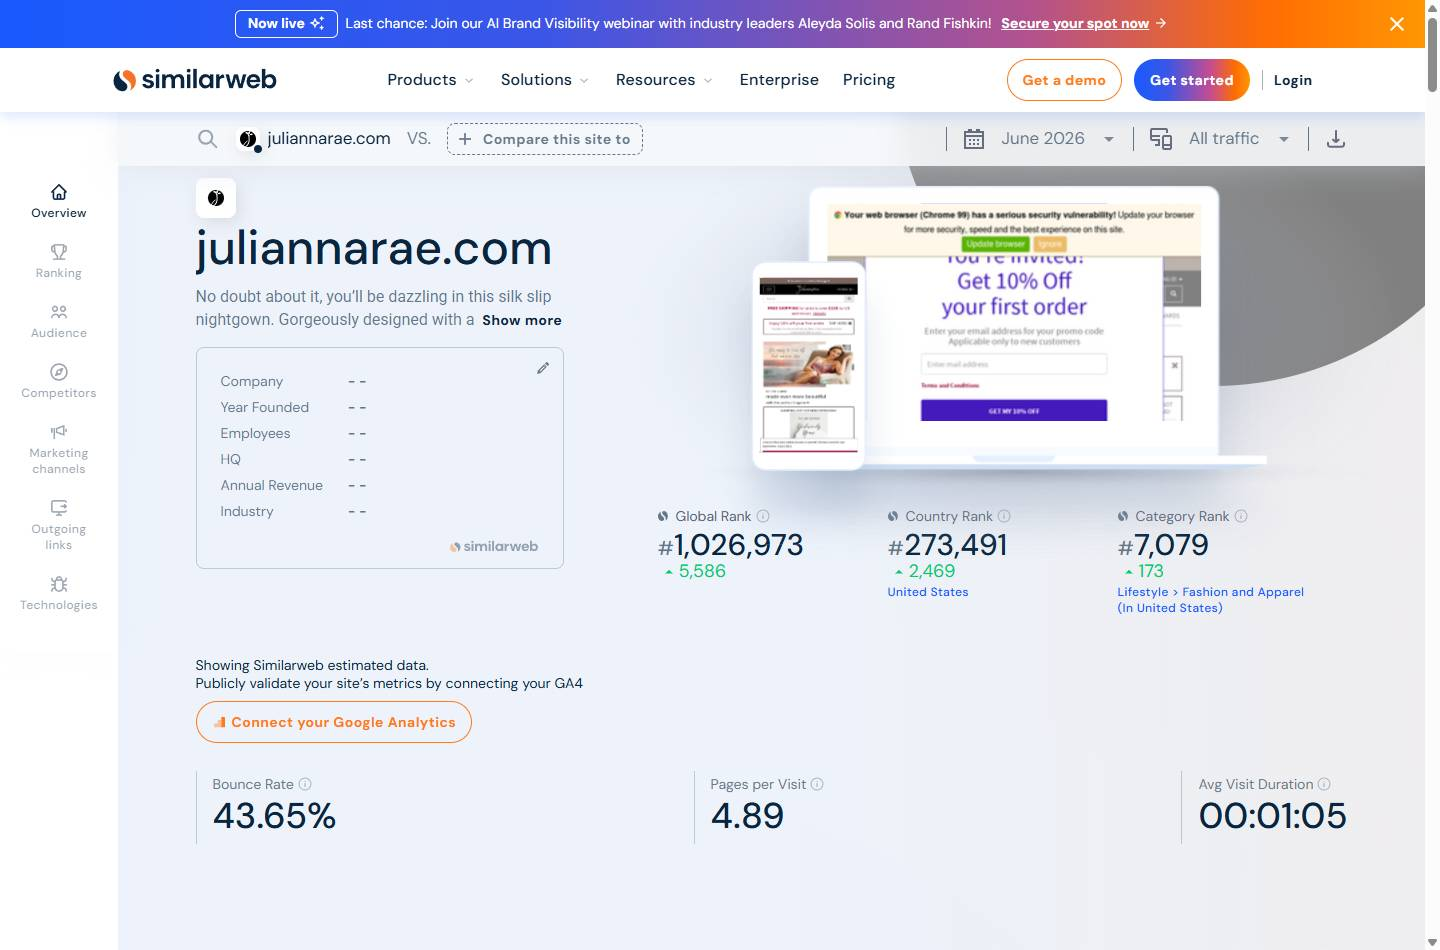
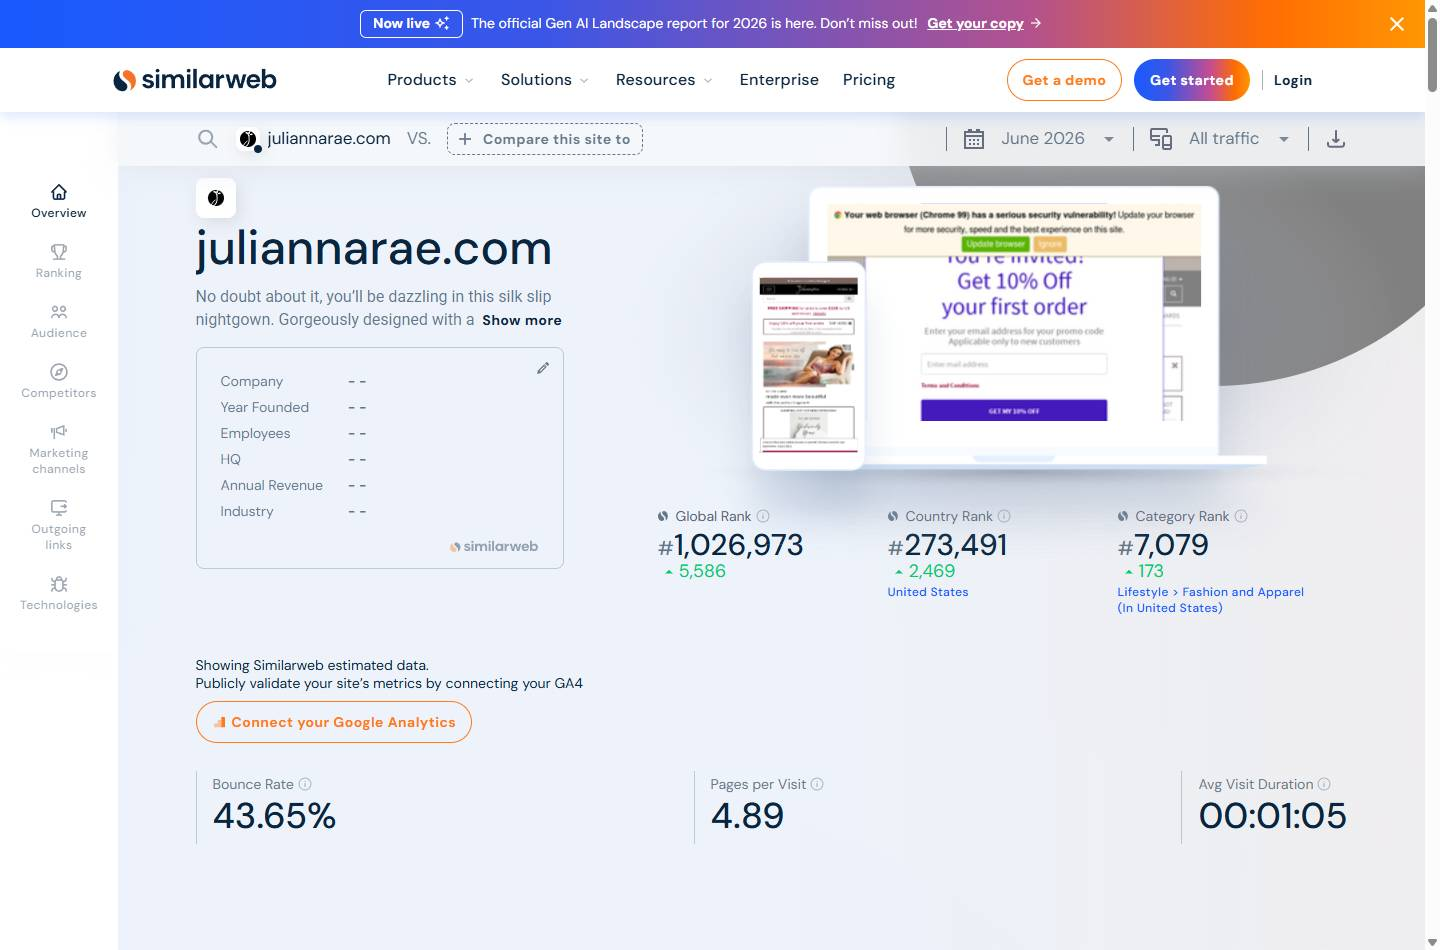
Fecha a re-medicao de trafego e quantifica o territorio de roupa de cama
SimilarWeb concluido nos 9 dominios: os 8 ja medidos em 20/07 voltaram com
valores identicos (base mensal, junho/2026 vigente), confirmando que
faturamento e investimento seguem validos.

Dado novo: rest.com, o entrante do angulo cooling, tem 338,5 mil visitas/mes,
85,9% EUA, bounce 33% e rank de categoria #47 (acima da Cozy Earth, #61).
Pelo modelo IRP das fichas: ~US$ 906 mil/mes, selo medido.

Isso quantifica a tese: duas operacoes no mesmo angulo e no mesmo avatar,
uma vendendo cama (US$ 906 mil) e outra vendendo pijama (US$ 9 mil).

Changed region(s): [[0.1562, 0.0, 0.8125, 0.0611]]

diff --git a/index.html b/index.html
@@ -107,15 +107,26 @@
 <tr style="background:rgba(248,113,113,.06)"><td><a href="loja-serena.html"><b>Serena</b></a></td><td class="num">sem dados</td><td class="num">US$ 0</td><td>medido</td><td class="num">R$ 344 (12d)</td><td><span class="pill p-c">AUTÓPSIA</span></td></tr>
 </tbody>
 </table></div>
-<div class="note info"><b>Por que estes números não mudaram nesta atualização:</b> o SimilarWeb foi re-rodado do zero em 24/07 (arquivo anterior removido pra forçar nova medição, não reaproveitamento de cache). Até o fechamento desta versão, <b>5 dos 9 domínios já haviam retornado — Dore &amp; Rose, Cozy Earth, Floralshe, Lusome e Midnighties — todos com valores idênticos</b> aos de 20/07. É o esperado: a base do SimilarWeb é <b>mensal</b> e junho/2026 segue sendo o mês vigente, então quatro dias não movem o dado. Os quatro restantes (Julianna Rae, Petite Plume, Rest e a própria Serena) são OBSERVAR/sem-dado e não alteram o ranking. O mesmo vale pro benchmark IRP, que ainda publica junho/2026. Faturamento e investimento seguem válidos e com o mesmo selo.</div>
+<div class="note info"><b>Por que estes números não mudaram nesta atualização:</b> o SimilarWeb foi re-rodado do zero em 24/07 (arquivo anterior removido pra forçar nova medição, não reaproveitamento de cache). <b>Os 8 domínios voltaram com valores idênticos aos de 20/07</b>, um a um — Dore &amp; Rose 350,6 mil, Cozy Earth 1,3 mi, Floralshe 63,2 mil, Julianna Rae 17,9 mil, Lusome 4,9 mil, Midnighties 20 mil, Petite Plume 20 mil, e Serena segue abaixo do indexado. É o esperado: a base do SimilarWeb é <b>mensal</b> e junho/2026 segue sendo o mês vigente, então quatro dias não movem o dado. O mesmo vale pro benchmark IRP, que ainda publica junho/2026. Faturamento e investimento seguem válidos e com o mesmo selo. <b>A única medição de tráfego inédita foi a da Rest</b> (novo entrante, 338,5 mil visitas), na seção 06.</div>
 <div class="note"><b>Benchmark de custo do nicho</b> (IRP Commerce, Fashion Clothing &amp; Accessories, jun/2026, reconfirmado em 24/07, referência de toda ficha): conversão <b>1,70%</b> · ticket <b>~US$ 109</b> · CPA <b>10,6% da receita</b> · <b>CPM US$ 9,23</b> · CPC US$ 0,45. Setor de margem apertada em CPA: o ticket precisa segurar, então o caminho é empurrar AOV pra cima (bump/upsell), não baixar preço.</div>
 </section>
 
 <section>
 <h2><span class="n">06</span>Quem entrou no mercado desde 20/07</h2>
-<p class="lead">Páginas que apareceram no topo das buscas de ângulo no mercado US e não estavam no levantamento original. Nenhuma delas muda o ranking de MODELAR, mas duas explicam pra onde o dinheiro está indo.</p>
+<p class="lead">Páginas que apareceram no topo das buscas de ângulo no mercado US e não estavam no levantamento original. Nenhuma delas muda o ranking de MODELAR, mas uma delas quantifica a tese inteira.</p>
+<div class="note good"><b>O número que fecha o argumento.</b> O SimilarWeb da Rest voltou com <b>338,5 mil visitas/mês</b>, 85,9% dos EUA, bounce de 33% (público muito qualificado) e <b>rank de categoria #47</b> — acima da Cozy Earth, que é #61. Pelo mesmo modelo IRP usado em todas as fichas, isso dá <b>~US$ 906 mil/mês</b> (selo: <b>medido</b>, visitas reais do SimilarWeb; ticket = mediana de US$ 126 do products.json).<br><br>
+Colocado lado a lado, o desenho do ângulo cooling fica explícito:
+<div class="tblwrap" style="margin-top:12px"><table>
+<thead><tr><th>Operação</th><th>Produto do ângulo cooling</th><th class="num">Visitas/mês</th><th class="num">Receita/mês est.</th></tr></thead>
+<tbody>
+<tr><td><b>Rest</b> <span class="pill p-i">roupa de cama</span></td><td>Lençol, edredom, travesseiro (13 SKUs)</td><td class="num">338,5 mil</td><td class="num" style="color:var(--acc);font-weight:700">US$ 906 mil</td></tr>
+<tr><td><b>Breescape</b> <span class="pill p-i">roupa de cama</span></td><td>Edredom, lençol, fronha (17 SKUs)</td><td class="num">não indexada</td><td class="num">—</td></tr>
+<tr><td><a href="loja-lusome.html"><b>Lusome</b></a> <span class="pill p-b">pijama</span></td><td>Pijama cooling (e agora lençol de US$ 328)</td><td class="num">4,9 mil</td><td class="num">US$ 9 mil</td></tr>
+</tbody>
+</table></div>
+<span style="color:var(--dim2);font-size:13px">Não é comparação de qualidade de operação: a Rest é marca com prêmio e a Lusome é loja pequena. É comparação de <b>tamanho de território</b>. Duas operações no mesmo ângulo e no mesmo avatar, separadas por duas ordens de grandeza, e o que muda entre elas é o produto no carrinho.</span></div>
 <div class="grid g3">
-<div class="card"><span class="pill p-i">OBSERVAR</span><h3>Rest (rest.com)</h3><p style="color:var(--dim);font-size:14px"><b>296 ativos.</b> "Say Goodbye to Night Sweats". Mecanismo nomeado Evercool®, 3x vencedora do Good Housekeeping. <b>13 SKUs cobrindo o sistema de sono inteiro</b> — lençol, edredom, travesseiro, máscara <i>e</i> pijama. É MARCA (não replicável), mas a arquitetura de catálogo é a aula.</p></div>
+<div class="card"><span class="pill p-i">OBSERVAR</span><h3>Rest (rest.com)</h3><p style="color:var(--dim);font-size:14px"><b>296 ativos · 338,5 mil visitas/mês · rank de categoria #47.</b> "Say Goodbye to Night Sweats". Mecanismo nomeado Evercool®, 3x vencedora do Good Housekeeping. <b>13 SKUs cobrindo o sistema de sono inteiro</b> — lençol, edredom, travesseiro, máscara <i>e</i> pijama. É MARCA (não replicável), mas a arquitetura de catálogo é a aula.</p></div>
 <div class="card"><span class="pill p-c">FORA DO ESCOPO</span><h3>Sophie Hartwell</h3><p style="color:var(--dim);font-size:14px"><b>453 ativos.</b> Advertorial de menopausa e hormônio, não vende sleepwear. Importa porque disputa <b>o mesmo avatar</b>: quem encarece o CPM da mulher 45+ com sintoma de menopausa é quem vende suplemento, não quem vende pijama.</p></div>
 <div class="card"><span class="pill p-n">IGNORAR</span><h3>Azelvira · Shapecurve · Bellabu Bear</h3><p style="color:var(--dim);font-size:14px">Dropship genérico com pijama como linha secundária (Azelvira, 31 ativos; Shapecurve) ou marca com licenciamento (Bellabu Bear, pijama de bambu do Ninja Turtles). Não são molde.</p></div>
 </div>
@@ -131,6 +142,6 @@
 </section>
 
 <footer style="color:var(--dim2);font-size:12.5px;padding:28px 0 40px;border-top:1px solid rgba(255,255,255,.08);margin-top:10px">
-<b>Metodologia desta atualização (24/07/2026).</b> Mídia paga: Meta Ad Library oficial, contagem por <code>page_ids</code> + <code>estimated_total_count</code>, chamadas ACTIVE e ALL separadas por página, mais uma amostra de até 50 criativos por loja pra cadência, duplicação e ranking de vencedores. Catálogo: <code>products.json?limit=250</code> em 8 domínios (Petite Plume retornou HTTP 530 e Julianna Rae 404 — lacunas declaradas nas fichas). Saturação: 9 termos com <code>countries=[US]</code>. Tráfego: SimilarWeb via navegador real, re-rodado do zero (5 dos 9 domínios confirmados no fechamento desta versão, todos idênticos aos anteriores; base mensal). Benchmark: IRP Commerce, junho/2026. Faturamento é <b>estimado</b>, nunca medido: visitas × conversão do setor × ticket, ajustado por bounce, com selo de confiança por loja.
+<b>Metodologia desta atualização (24/07/2026).</b> Mídia paga: Meta Ad Library oficial, contagem por <code>page_ids</code> + <code>estimated_total_count</code>, chamadas ACTIVE e ALL separadas por página, mais uma amostra de até 50 criativos por loja pra cadência, duplicação e ranking de vencedores. Catálogo: <code>products.json?limit=250</code> em 8 domínios (Petite Plume retornou HTTP 530 e Julianna Rae 404 — lacunas declaradas nas fichas). Saturação: 9 termos com <code>countries=[US]</code>. Tráfego: SimilarWeb via navegador real, re-rodado do zero nos 9 domínios (8 anteriores idênticos, base mensal; Rest medida pela primeira vez). Benchmark: IRP Commerce, junho/2026. Faturamento é <b>estimado</b>, nunca medido: visitas × conversão do setor × ticket, ajustado por bounce, com selo de confiança por loja.
 </footer>
 </div>

diff --git a/estrategia.html b/estrategia.html
@@ -27,6 +27,7 @@
 <tr><td><b>Rest</b> <span class="pill p-i">novo</span></td><td>Entrou na amostra com 296 ativos e "Say Goodbye to Night Sweats". 13 SKUs cobrindo o sistema de sono inteiro</td><td class="num">US$ 126 <span style="color:var(--dim2)">(mediana)</span></td></tr>
 </tbody>
 </table></div>
+<div class="note good"><b>E o tamanho do território, medido:</b> o SimilarWeb da Rest voltou com <b>338,5 mil visitas/mês</b> (85,9% EUA, bounce 33%, rank de categoria <b>#47</b>, acima da Cozy Earth que é #61). Pelo mesmo modelo IRP das fichas: <b>~US$ 906 mil/mês</b>, selo <b>medido</b>. A Lusome, no mesmo ângulo e no mesmo avatar, mas vendendo <b>pijama</b>, faz 4,9 mil visitas e ~US$ 9 mil. Duas ordens de grandeza separando duas operações que dizem a mesma frase pra mesma mulher. O que muda é o que está no carrinho.</div>
 <div class="note good"><b>O que isso significa pra loja nova:</b> o avatar não mudou (mulher 40+ com calor noturno), o ângulo não mudou (condição resolvida por mecanismo físico), o <b>carrinho</b> é que mudou. Quem vende só pijama pra esse avatar está brigando num território que encolheu 37% e com ticket de US$ 88. Quem vende o <b>sistema de sono</b> pro mesmo avatar disputa um mercado 15x maior com ticket de US$ 130 a US$ 330.</div>
 <div class="note"><b>O contra-argumento, que também é dado:</b> roupa de cama tem frete mais caro (peso e volume), grade de tamanho (twin/full/queen/king) e devolução mais dolorosa que pijama. Pijama continua sendo o produto mais fácil de operar pra iniciante. Por isso a recomendação não é "trocar de nicho", e sim <b>entrar por pijama e escalar por cama</b> — a sequência exata que a Lusome está executando, e que está detalhada no <a href="plano-de-acao.html" style="color:var(--acc)">plano de ação</a>.</div>
 </section>
